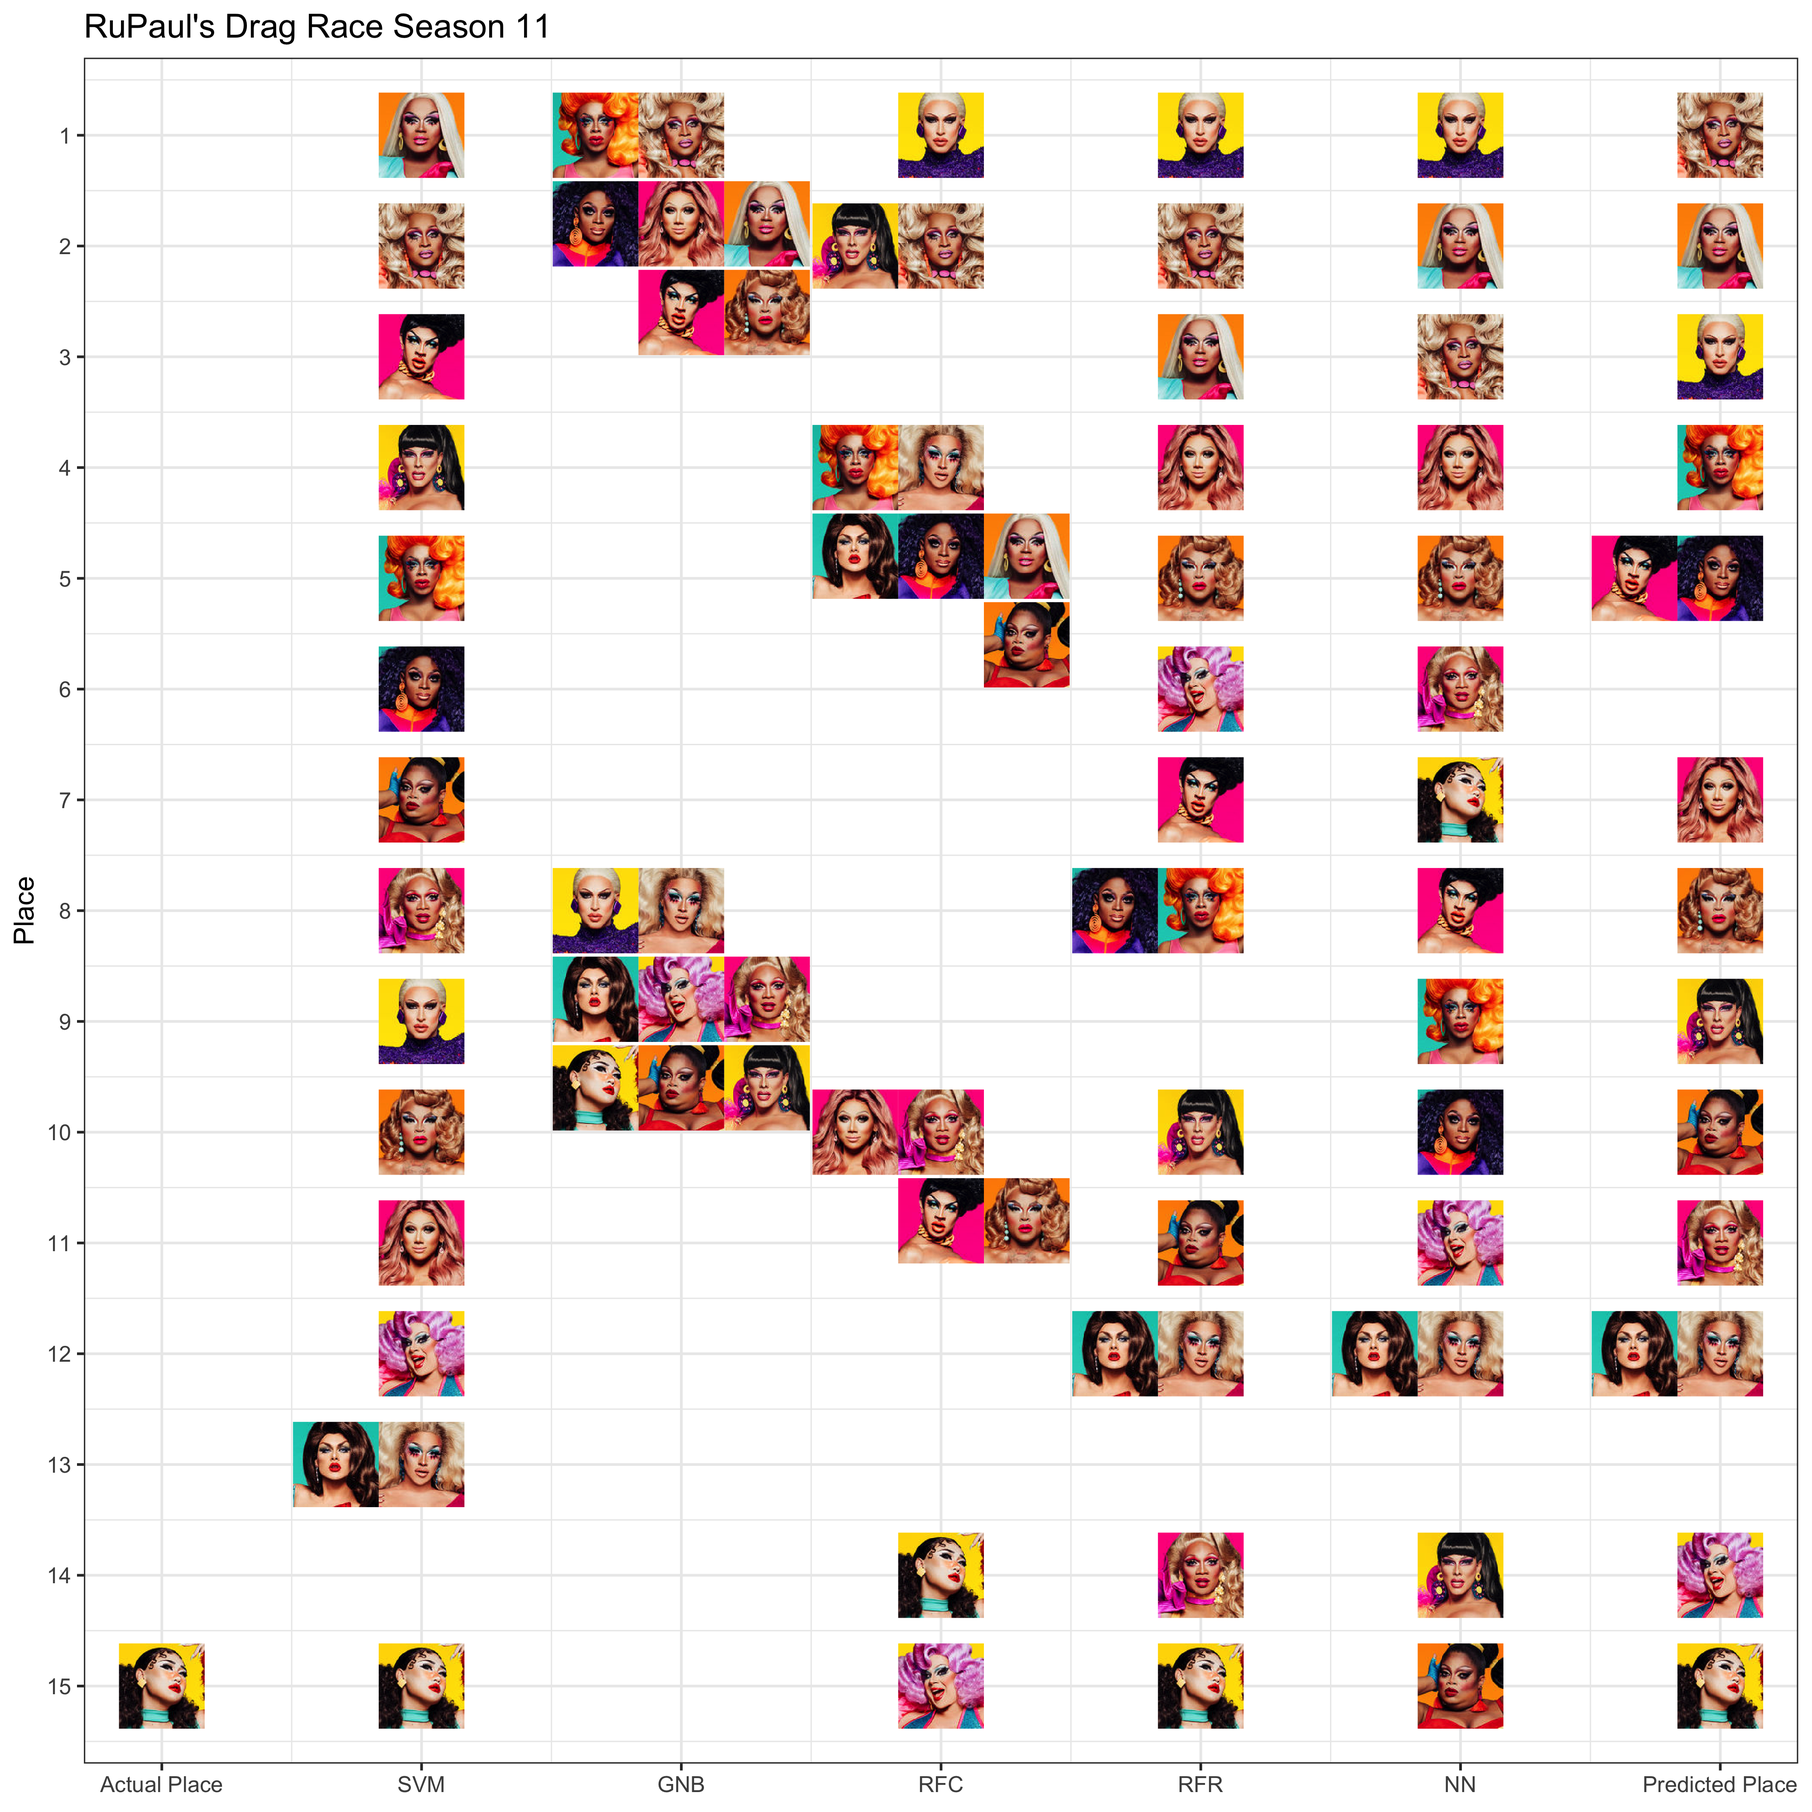
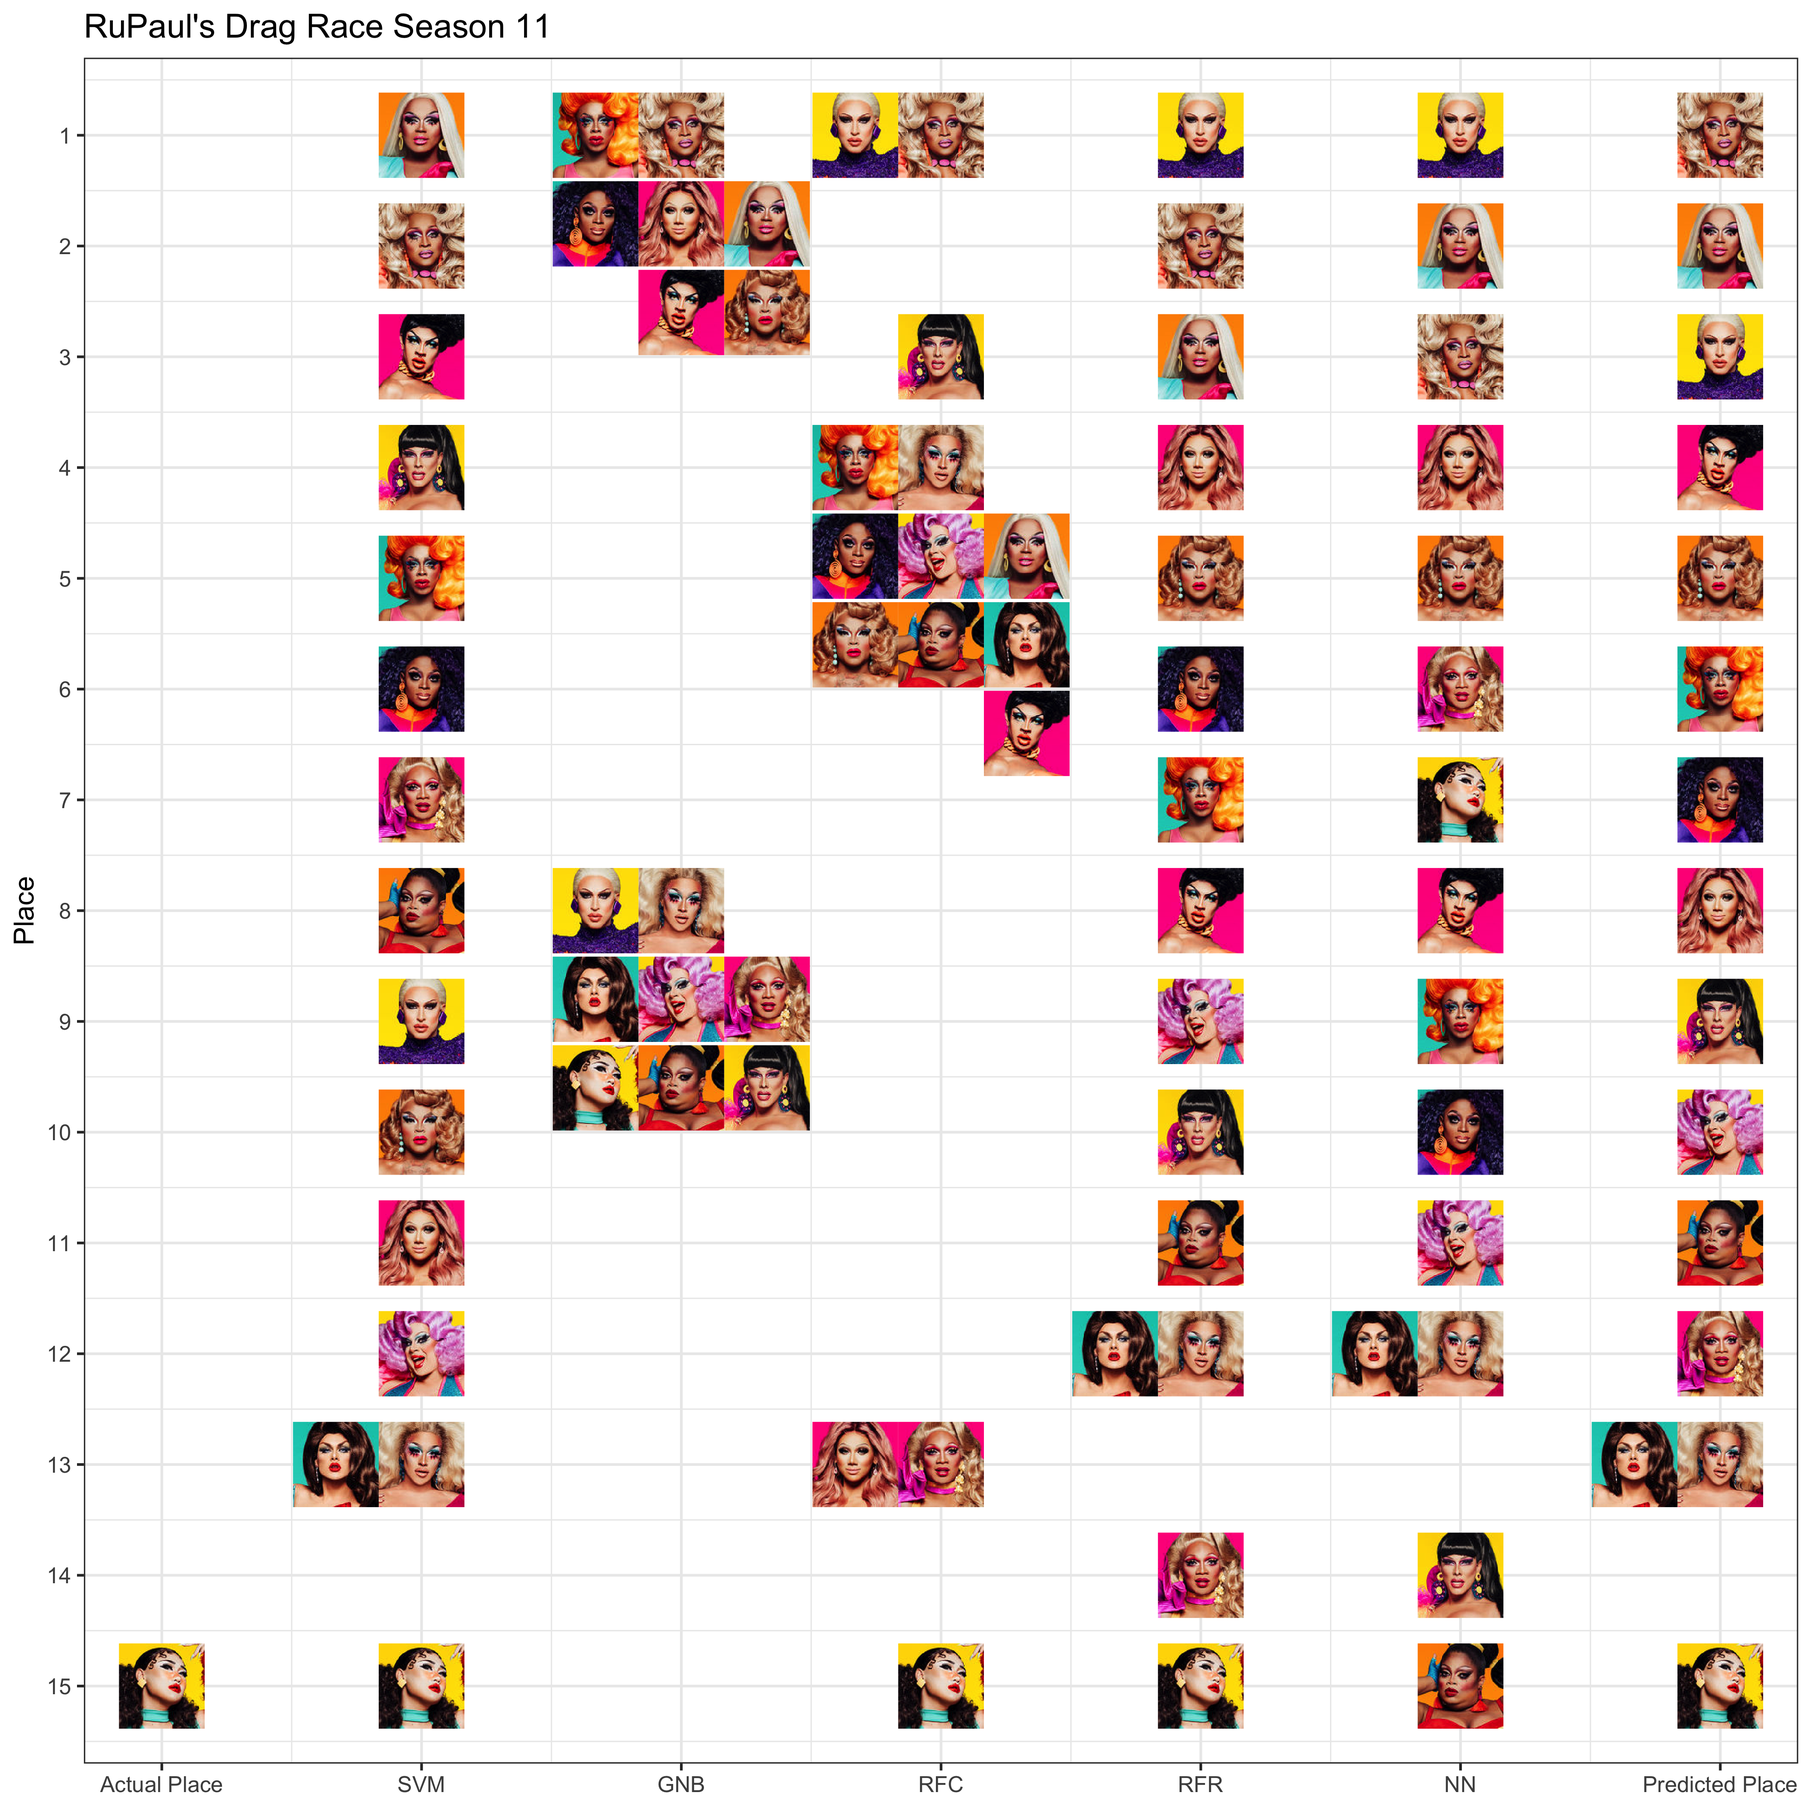
write up results

diff --git a/Season 11/Episode 01/drag_race_s11e01.md b/Season 11/Episode 01/drag_race_s11e01.md
@@ -1,51 +1,15 @@
----
-title: "Drag Race Season 11 Episode 1"
-author: Thomas Elliott
-date: "`r format(Sys.Date(), '%B %e, %Y')`"
-output: github_document
----
+Drag Race Season 11 Episode 1
+================
+Thomas Elliott
+March 1, 2019
 
-```{r setup, include=FALSE}
-knitr::opts_chunk$set(echo = TRUE, fig.width=8, fig.height=6, fig.retina=4, warning=TRUE)
-
-library(tidyverse)
-library(kernlab)
-library(e1071)
-library(randomForest)
-library(neuralnet)
-library(ggimage)
-
-data.df<-read_csv("drag_race.csv")
-
-compareRanks<-function(x, y) {
-  #' x = actual place
-  #' y = predicted place
-  actual<-sum((x-y)^2)
-  worst<-sum((sort(x)-sort(x,TRUE))^2)
-  1-2*(actual/worst)
-}
-
-setXY<-function(x,y,n) {
-  y = y - round((n-1)/3)*0.8
-  if( n %% 3 == 2 ) {
-    x<-x - 0.33
-  }
-  else if ( n %% 3 == 0 ) {
-    x<-x + 0.33
-  }
-  c(x,y)
-}
-
-set.seed(11)
-```
-
-Beginning with season 8 of RuPaul's Drag Race, I began using machine learning algorithms to try to predict the outcome of the season. I wrote the script in Python, and for the past three seasons I've run the script to try to predict the outcomes of each season. Season 11 of Drag Race begins in March, 2018, and for this season I decided to transition to using R for my predictions. In recent years, packages supporting machine learning in R has proliferated, and since I use R in my day job, I wanted to use it for this project as well. 
+Beginning with season 8 of RuPaul's Drag Race, I began using machine learning algorithms to try to predict the outcome of the season. I wrote the script in Python, and for the past three seasons I've run the script to try to predict the outcomes of each season. Season 11 of Drag Race begins in March, 2018, and for this season I decided to transition to using R for my predictions. In recent years, packages supporting machine learning in R has proliferated, and since I use R in my day job, I wanted to use it for this project as well.
 
 For those not familiar with Rupaul’s Drag Race, it is a reality competition show, similar to America’s Next Top Model or Project Runway, in which 9-15 (it varies each season) drag queens must succeed at weekly challenges that test their Charisma, Uniqueness, Nerve, and Talent to become America’s Next Drag Superstar. In recent seasons, this has come with a cash prize of 100K dollars, along with various other perks. The weekly challenges take various forms, but usually include sewing challenges, in which queens must make themed garments out of unusual materials, acting challenges, in which queens act out humorous (and often irreverent) scenes, and every season since season 2 has included the Snatch Game, a parody of the 1970s TV game show Match Game in which queens must dress up and perform celebrity impressions as panelists on the Snatch Game, with guest judges for the week serving as contestents. The end of every episode, regardless of challenge, begins with a runway walk in which the queens must walk the runway in a themed look and then the queens are critiqued by the judges for their performance in the challenge as well as their runway look. The two worst performing queens for the week must then lipsync for their life, and whoever impresses Rupaul the most with their lipsync gets to stay, and the other queen must sashay away.
 
 For those not familiar with machine learning, it is a family (or, really families) of algorithms for exploring and predicting data. There are two broad groups of families: supervised and unsupervised. Unsupervised learning algorithms are used when you have data you would like to classify without knowing what the right answers are before hand. Principal components analysis and K-means clustering are examples of unsupervised learning algorithms. Supervised algorithms are used when you already know the answer for at least some of your data. These algorithms work by feeding in a set of features (independent variables) and the labels, or answers, and the algorithm works to figure out how to get from the features to the labels. One of the biggest differences between standard statistical analysis and machine learning is that in standard statistical analysis, the model is the most important part of the process – understanding how it gets from the independent variables to the predicted dependent variable, and the relationship between these variables. In machine learning, the model is usually not important at all, and is treated as a black box. Instead, machine learning focuses on how well the model predicts the labels.
 
-```{r}
+``` r
 all.seasons<-data.df %>% 
   replace_na(list(Wins=0, Highs=0, Lows=0, Lipsyncs=0))
 train.df<-all.seasons %>% 
@@ -69,8 +33,8 @@ season11<-season11 %>%
 the.model<-Place ~ Season + Age + Black + White + POC + PlusSize + Wins + Highs + Lows + Lipsyncs
 ```
 
-# Meet the Queens
-
+Meet the Queens
+===============
 
 Let’s begin the challenge by meeting our contestants. First up is **Support Vector Machines**, a classifier with a pretty intuitive algorithm. Imagine you plot points on a two-dimensional graph. Support vector machines (SVM) attempts to separate out the groups defined by the labels using a line or curve that maximizes the distance between the dividing line and the closest points. If you have more than two features (as is often the case), the same thing happens but in a higher dimensional space.
 
@@ -82,45 +46,46 @@ The fourth contestant is the **Random Forest Regressor**, also from the Haus of 
 
 Our final contestant is **Neural Network**. Neural networks are a family of methods that roughly simulate connections between neurons in a biological brain. The neural network used here consists of neurons that take some number of values as inputs, applies weights to these values (that can be adjusted in the learning process), then applies these values to a logistic function to produce an output between 0 and 1. Neural networks consist of two or more layers of neurons (an input layer, an output layer, and zero or more hidden layers). The neural network I use here has one hidden layer consisting of three neurons.
 
-# The Mini Challenge
+The Mini Challenge
+==================
 
 This week’s mini challenge will require each contestant to study the outcomes of seasons 1 through 9 and then predict who placed where in season 10. In machine learning parlance, seasons 1-9 are the training set, the data on which the algorithms learn their prediction models, and season 10 is the test set, the data the algorithms never saw when they were learning to see how well they do at predicting totally new data. I use 10 features:
 
-1. Season the queen appeared in
-2. Age of the queen
-3. Whether the queen is Black
-4. Whether the queen is white
-5. Whether the queen is a non-Black person of color
-6. Whether the queen is Plus Size
-7. The total number of main challenges a queen won during the season
-8. The total number of times a queen was among the top queens for the challenge, but did not win the challenge
-9. The total number of times a queen was among the worst queens for the challenge, but did not lip-sync
+1.  Season the queen appeared in
+2.  Age of the queen
+3.  Whether the queen is Black
+4.  Whether the queen is white
+5.  Whether the queen is a non-Black person of color
+6.  Whether the queen is Plus Size
+7.  The total number of main challenges a queen won during the season
+8.  The total number of times a queen was among the top queens for the challenge, but did not win the challenge
+9.  The total number of times a queen was among the worst queens for the challenge, but did not lip-sync
 10. The total number of times a queen had to lip-sync for her life (including the lip-sync that she sashayed away from)
 
 For all four algorithms, I rank the predicted ranks, as some algorithms did not predict any queens to place first. Ranking the predicted ranks ensures that at least one queen will be predicted to come in first. Below shows the code and results of the mini-challenge.
 
-
-
-# The Maxi Challenge: Predicting Season 11
+The Maxi Challenge: Predicting Season 11
+========================================
 
 The main challenge is to predict the outcome of season 11 of RuPaul's drag race. To do so, we'll use the following features in our models:
 
-1. Season the queen appeared in
-2. Age of the queen
-3. Whether the queen is Black
-4. Whether the queen is white
-5. Whether the queen is a non-Black person of color
-6. Whether the queen is Plus Size
-7. The total number of main challenges a queen won during the season
-8. The total number of times a queen was among the top queens for the challenge, but did not win the challenge
-9. The total number of times a queen was among the worst queens for the challenge, but did not lip-sync
+1.  Season the queen appeared in
+2.  Age of the queen
+3.  Whether the queen is Black
+4.  Whether the queen is white
+5.  Whether the queen is a non-Black person of color
+6.  Whether the queen is Plus Size
+7.  The total number of main challenges a queen won during the season
+8.  The total number of times a queen was among the top queens for the challenge, but did not win the challenge
+9.  The total number of times a queen was among the worst queens for the challenge, but did not lip-sync
 10. The total number of times a queen had to lip-sync for her life (including the lip-sync that she sashayed away from)
 
-For all four algorithms, I rank the predicted ranks, as some algorithms did not predict any queens to place first. Ranking the predicted ranks ensures that at least one queen will be predicted to come in first. 
+For all four algorithms, I rank the predicted ranks, as some algorithms did not predict any queens to place first. Ranking the predicted ranks ensures that at least one queen will be predicted to come in first.
 
-## Support Vector Machines
+Support Vector Machines
+-----------------------
 
-```{r}
+``` r
 s11.svm<-ksvm(the.model,
               data=pre11,
               kernal="rbfdot")
@@ -130,24 +95,28 @@ s11.results<-s11.results %>%
   mutate(SVM=rank(predict11,ties.method = "min"))
 ```
 
+Gaussian Naive Bayes
+--------------------
 
-## Gaussian Naive Bayes
-
-```{r}
+``` r
 s11.gnb<-naiveBayes(the.model,
               data=pre11.factor,
               laplace = 0)
 predict11<-predict(s11.gnb,
                    season11)
+```
+
+    ## Warning in data.matrix(newdata): NAs introduced by coercion
+
+``` r
 s11.results<-s11.results %>% 
   mutate(GNB=rank(predict11,ties.method = "min"))
 ```
 
+Random Forest Classifier
+------------------------
 
-
-## Random Forest Classifier
-
-```{r}
+``` r
 s11.rfc<-randomForest(the.model,
               data=pre11.factor,
               ntree=100)
@@ -157,11 +126,10 @@ s11.results<-s11.results %>%
   mutate(RFC=rank(predict11,ties.method = "min"))
 ```
 
+Random Forest Regressor
+-----------------------
 
-
-## Random Forest Regressor
-
-```{r}
+``` r
 s11.rfr<-randomForest(the.model,
               data=pre11,
               ntree=100)
@@ -171,12 +139,10 @@ s11.results<-s11.results %>%
   mutate(RFR=rank(predict11,ties.method = "min"))
 ```
 
+Neural Networks
+---------------
 
-
-## Neural Networks
-
-
-```{r}
+``` r
 s11.nn<-neuralnet(the.model,
               data=pre11,
               hidden=3,
@@ -188,15 +154,14 @@ s11.results<-s11.results %>%
   mutate(NN=rank(predict11,ties.method = "min"))
 ```
 
-
-
-## Final Predictions
+Final Predictions
+-----------------
 
 The final predicted score is based on the average of predicted places for each algorithm.
 
-With one episode down, the algorithms are predicting our top 4 to be A'Keria, Mercedes, Brooke Lynn, and Honey. The algorithms correctly guessed that Soju would be going home first, and predict that next week Nina West will be sashaying away. 
+With one episode down, the algorithms are predicting our top 4 to be A'Keria, Mercedes, Brooke Lynn, and Honey. The algorithms correctly guessed that Soju would be going home first, and predict that next week Nina West will be sashaying away.
 
-```{r}
+``` r
 s11.results<-s11.results %>% 
   mutate(Average=(SVM+GNB+RFC+RFR+NN)/5,
          `Predicted Rank`=rank(Average, ties.method = "min"))
@@ -206,9 +171,25 @@ s11.results %>%
   knitr::kable()
 ```
 
+| Name                     |  Place|  SVM|  GNB|  RFC|  RFR|   NN|  Average|  Predicted Rank|
+|:-------------------------|------:|----:|----:|----:|----:|----:|--------:|---------------:|
+| A'keria Chanel Davenport |     NA|    2|    1|    1|    2|    3|      1.8|               1|
+| Mercedes Iman Diamond    |     NA|    1|    1|    4|    3|    2|      2.2|               2|
+| Brooke Lynn Hytes        |     NA|    9|    8|    1|    1|    1|      4.0|               3|
+| Yvie Oddly               |     NA|    3|    1|    4|    8|    8|      4.8|               4|
+| Vanessa Vanjie Mateo     |     NA|   10|    1|    4|    5|    5|      5.0|               5|
+| Honey Davenport          |     NA|    5|    1|    4|    7|    9|      5.2|               6|
+| Ra'jah O'Hara            |     NA|    6|    1|    4|    6|   10|      5.4|               7|
+| Plastique Tiara          |     NA|   11|    1|   13|    4|    4|      6.6|               8|
+| Shuga Cain               |     NA|    4|    8|    3|   10|   14|      7.8|               9|
+| Nina West                |     NA|   12|    8|    4|    9|   11|      8.8|              10|
+| Silky Nutmeg Ganache     |     NA|    8|    8|    4|   11|   15|      9.2|              11|
+| Kahanna Montrese         |     NA|    7|    8|   13|   14|    6|      9.6|              12|
+| Ariel Versace            |     NA|   13|    8|    4|   12|   12|      9.8|              13|
+| Scarlet Envy             |     NA|   13|    8|    4|   12|   12|      9.8|              13|
+| Soju                     |     15|   15|    8|   15|   15|    7|     12.0|              15|
 
-
-```{r s11-results, fig.width=10, fig.height=10, fig.retina=4, warning=FALSE, message=FALSE}
+``` r
 df<-s11.results %>% 
   mutate(filename=paste0("../queens/",filename,".jpg")) %>% 
   gather(model,rank,Place:`Predicted Rank`) %>% 
@@ -244,6 +225,10 @@ df %>%
                      labels=c("Actual Place", "SVM", "GNB", "RFC", "RFR", "NN", "Predicted Place")) +
   scale_y_continuous(name="Place", breaks=c(1:15), labels=c(15:1)) +
   labs(title="RuPaul's Drag Race Season 11")
-ggsave("season11_results.png", width=10, height=10, dpi=400)
 ```
 
+<img src="drag_race_s11e01_files/figure-markdown_github/s11-results-1.png" width="960" />
+
+``` r
+ggsave("season11_results.png", width=10, height=10, dpi=400)
+```
